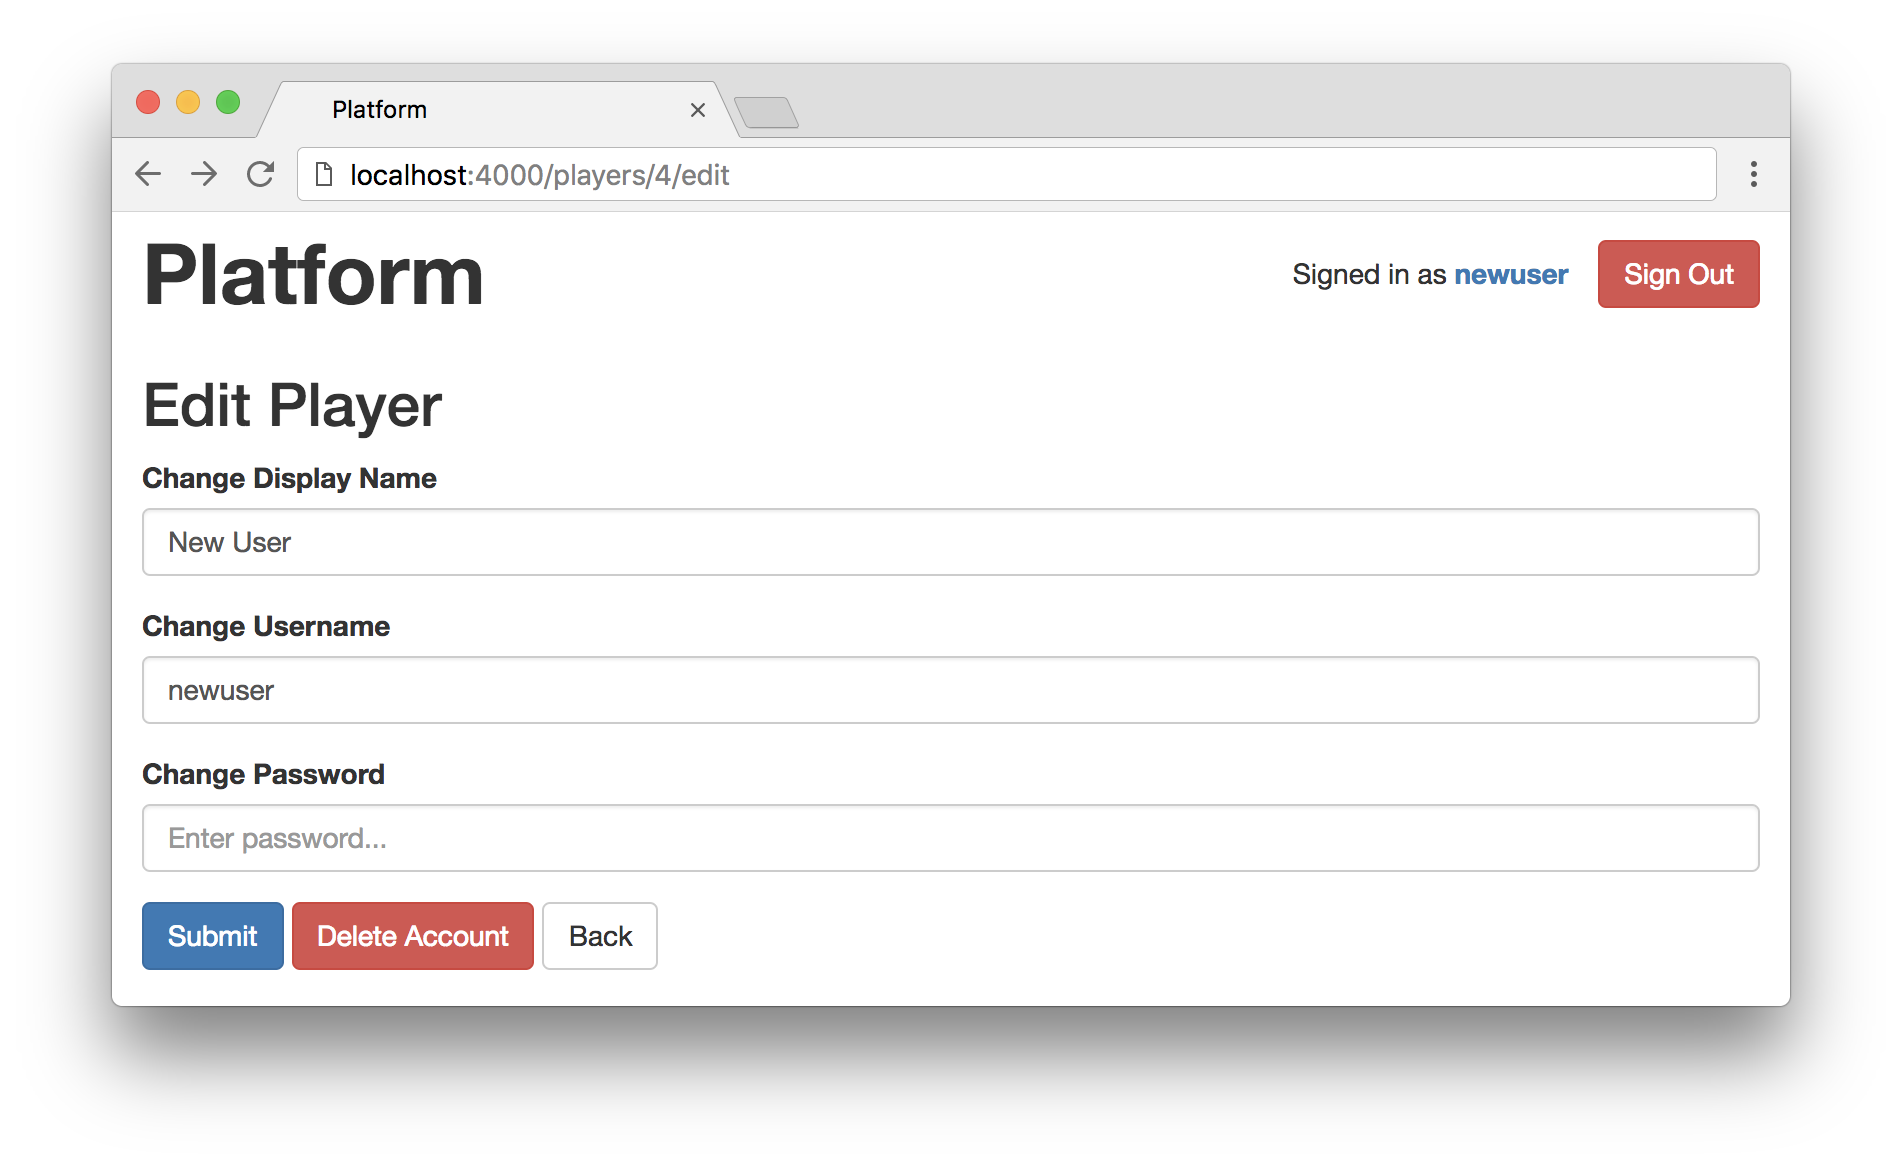
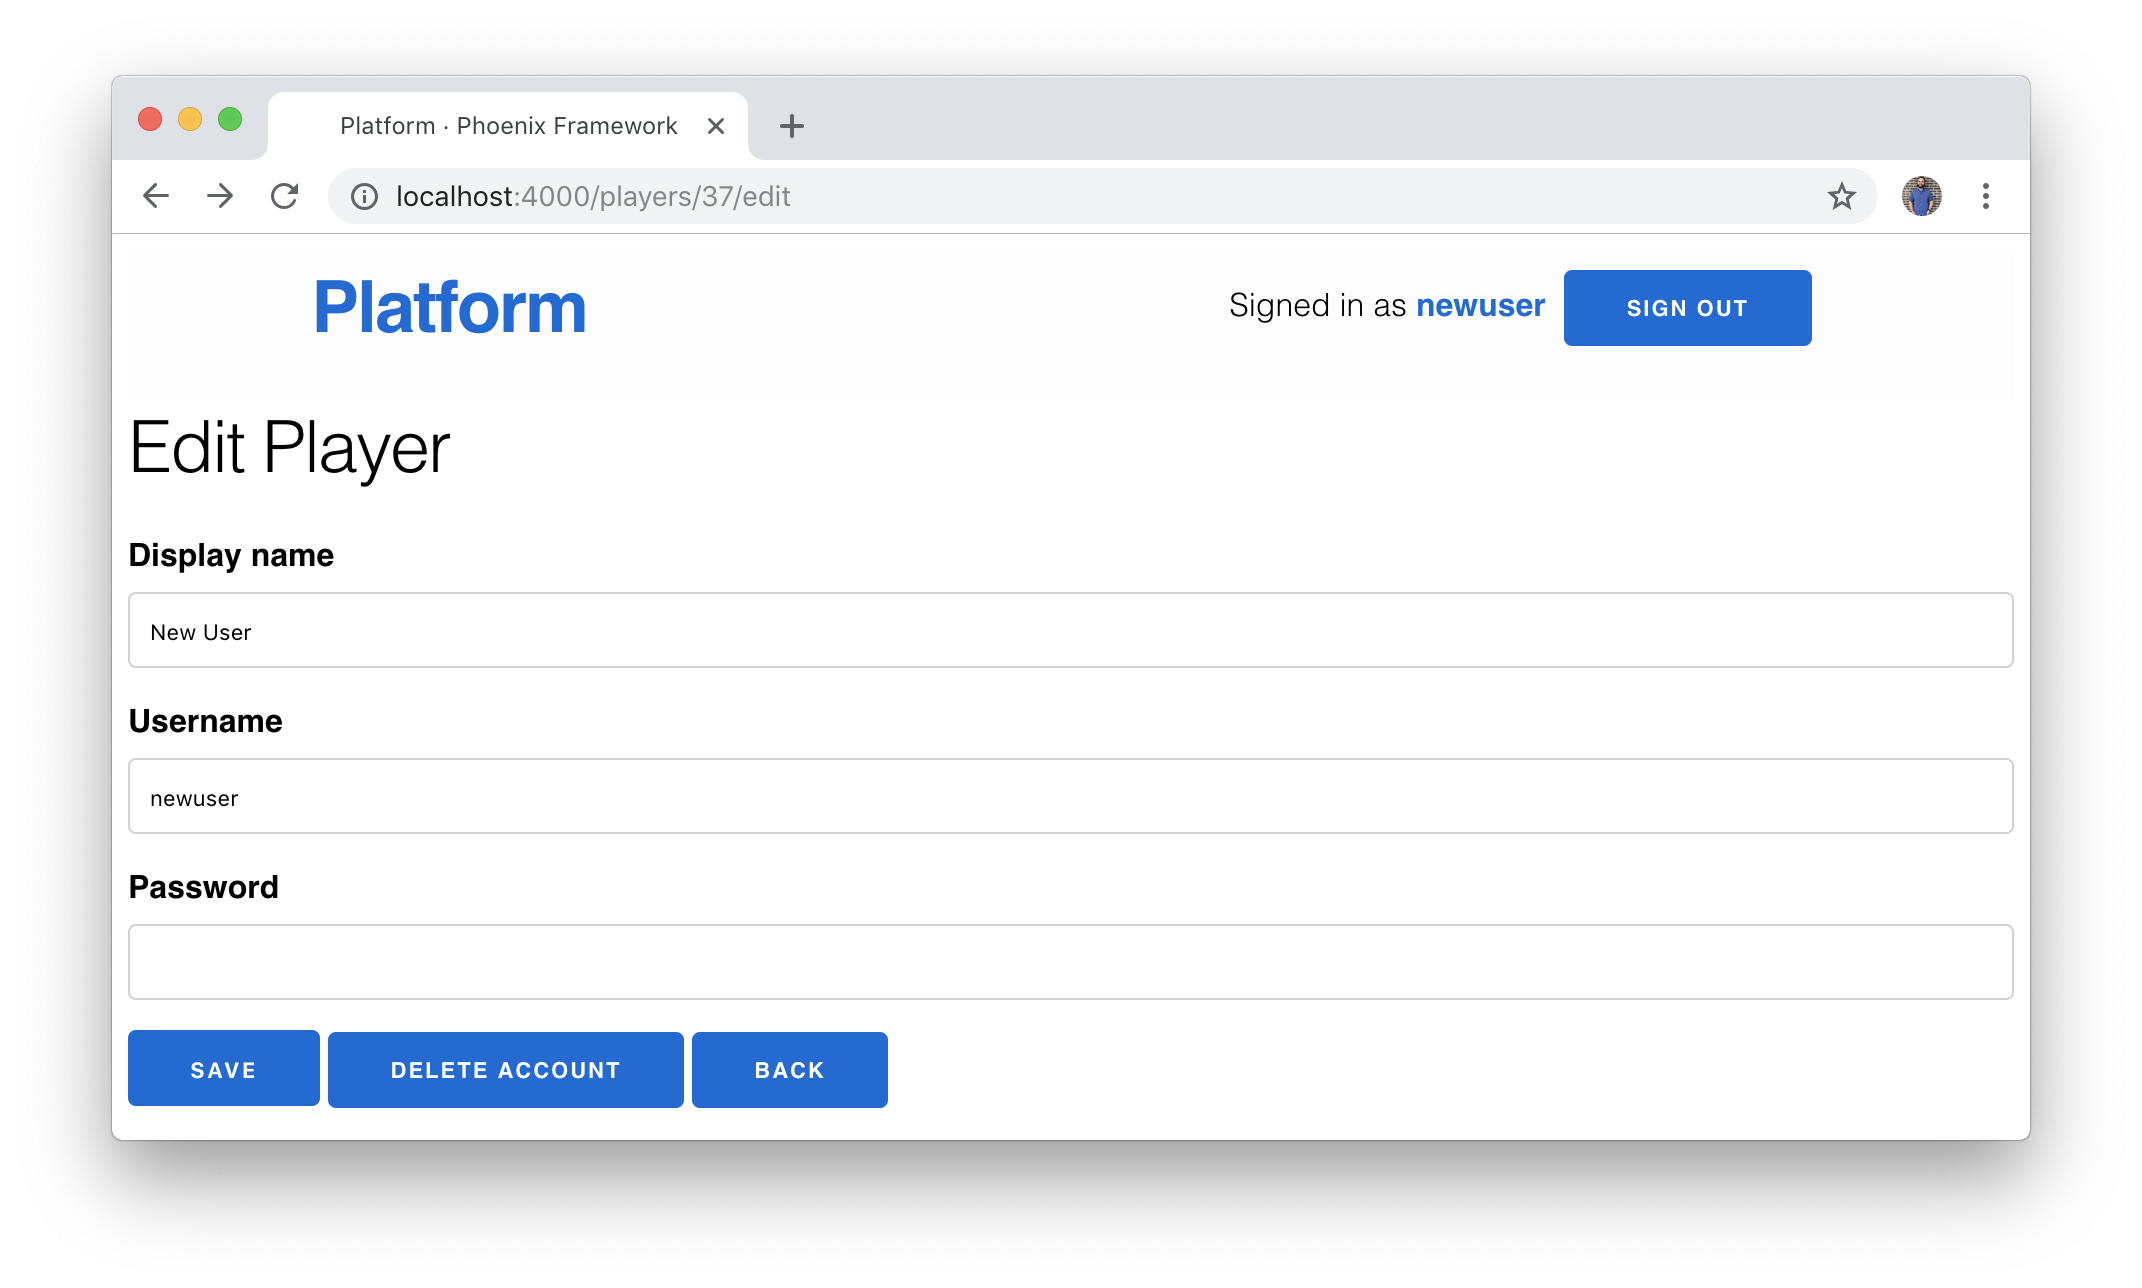
Update delete player content

Changed region(s): [[0.031, 0.0617, 0.9616, 0.8954]]

diff --git a/manuscript/design_and_usability.md b/manuscript/design_and_usability.md
@@ -384,22 +384,30 @@ Here's what the contents of the `<tbody>` tag should look like:
       <td><%= player.username %></td>
       <td><%= player.score %></td>
 
-      <td class="text-right">
-        <span><%= link "Show", to: player_path(@conn, :show, player), class: "btn btn-default btn-xs" %></span>
+      <td>
+        <%= link "Show", to: Routes.player_path(@conn, :show, player) %>
       </td>
     </tr>
 <% end %>
 ```
 
 In the `lib/platform_web/templates/player/edit.html.eex` file, we'll add the
-delete button to the list of buttons at the bottom of our **Edit Player** page.
+delete button at the bottom of our **Edit Player** page. Note that we're also
+adding `.button` classes so that all the buttons at the bottom of the page look
+consistent.
 
 ```embedded_elixir
-<div class="form-group">
-  <%= submit "Submit", class: "btn btn-primary" %>
-  <span><%= link "Delete Account", to: player_path(@conn, :delete, @player), method: :delete, data: [confirm: "Are you sure?"], class: "btn btn-danger" %></span>
-  <span><%= link "Back", to: page_path(@conn, :index), class: "btn btn-default" %></span>
-</div>
+<h1>Edit Player</h1>
+
+<%= form_for @changeset, Routes.player_path(@conn, :update, @player), fn f -> %>
+  <%= ... %>
+
+  <div>
+    <%= submit "Save" %>
+    <%= link "Delete Account", to: Routes.player_path(@conn, :delete, @player), method: :delete, data: [confirm: "Are you sure?"], class: "button" %>
+    <%= link "Back", to: Routes.player_path(@conn, :index), class: "button" %>
+  </div>
+<% end %>
 ```
 
 In the screenshot below, we created a `newuser` account to test that the delete
